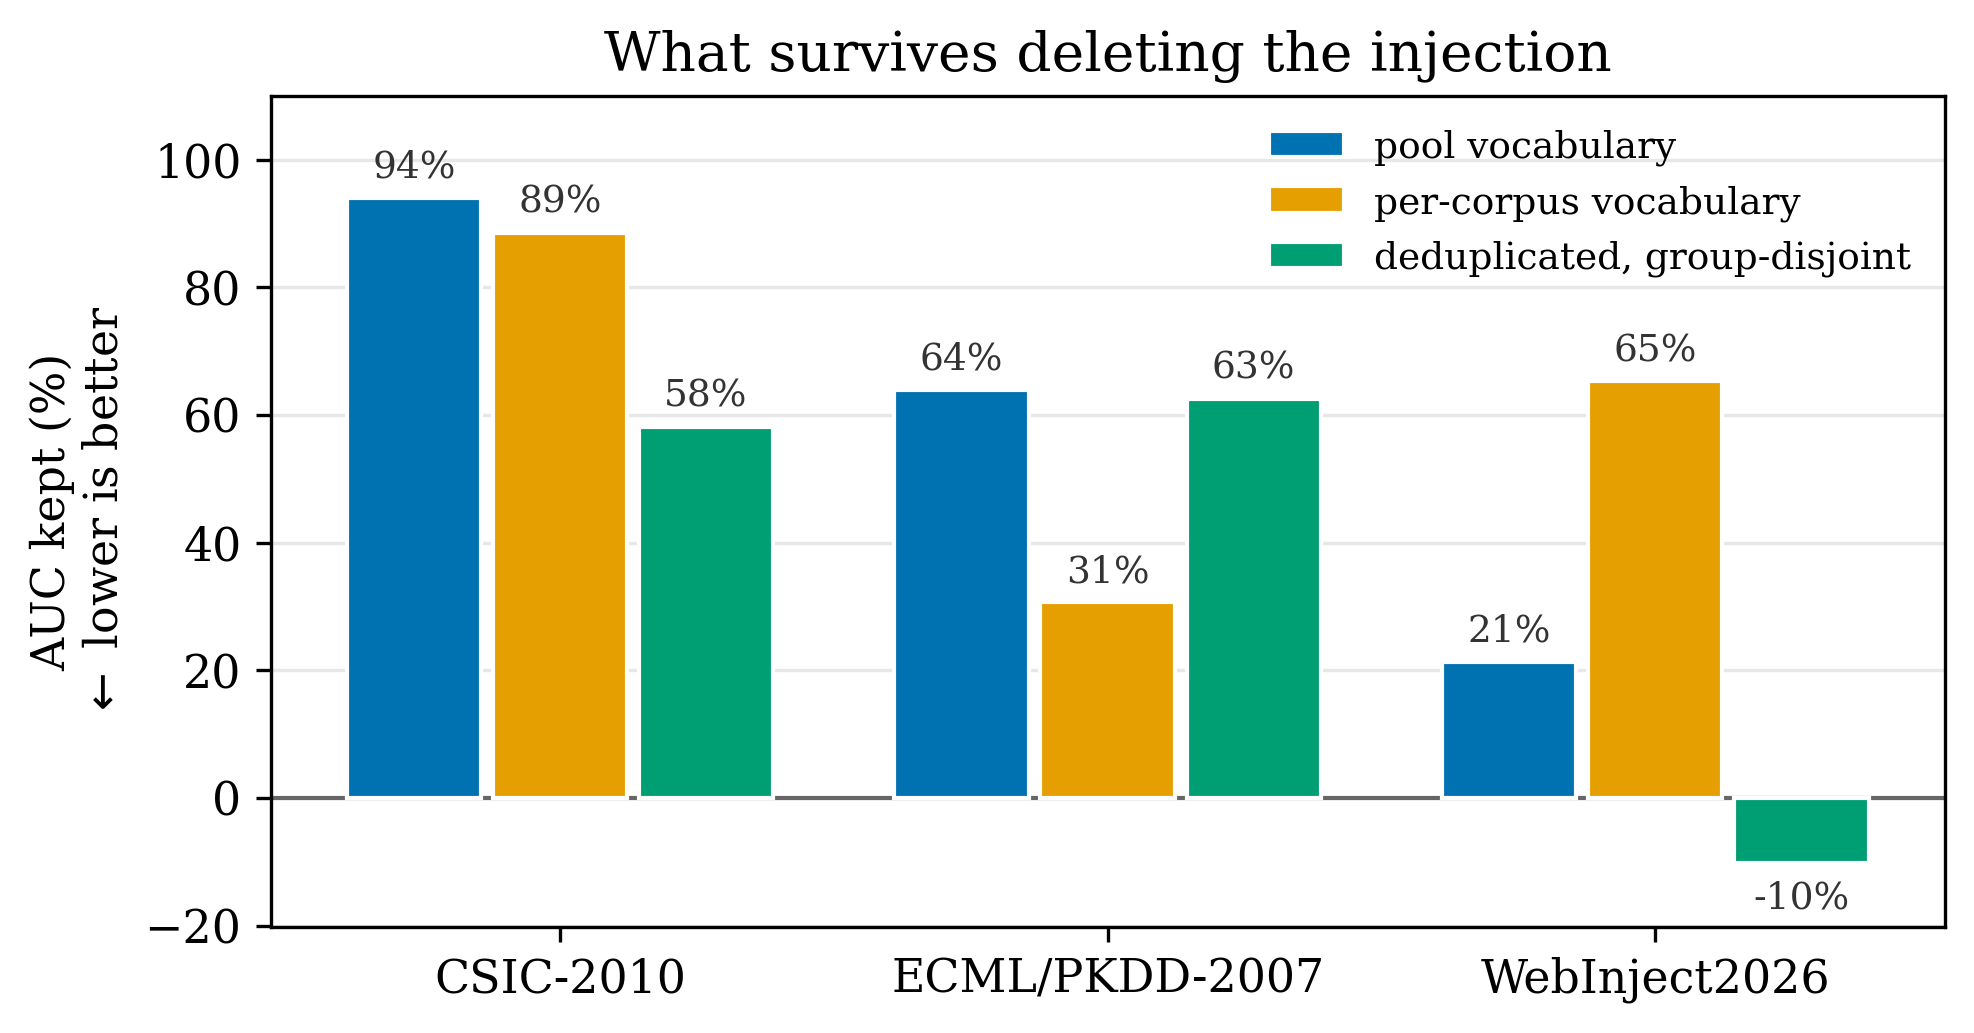
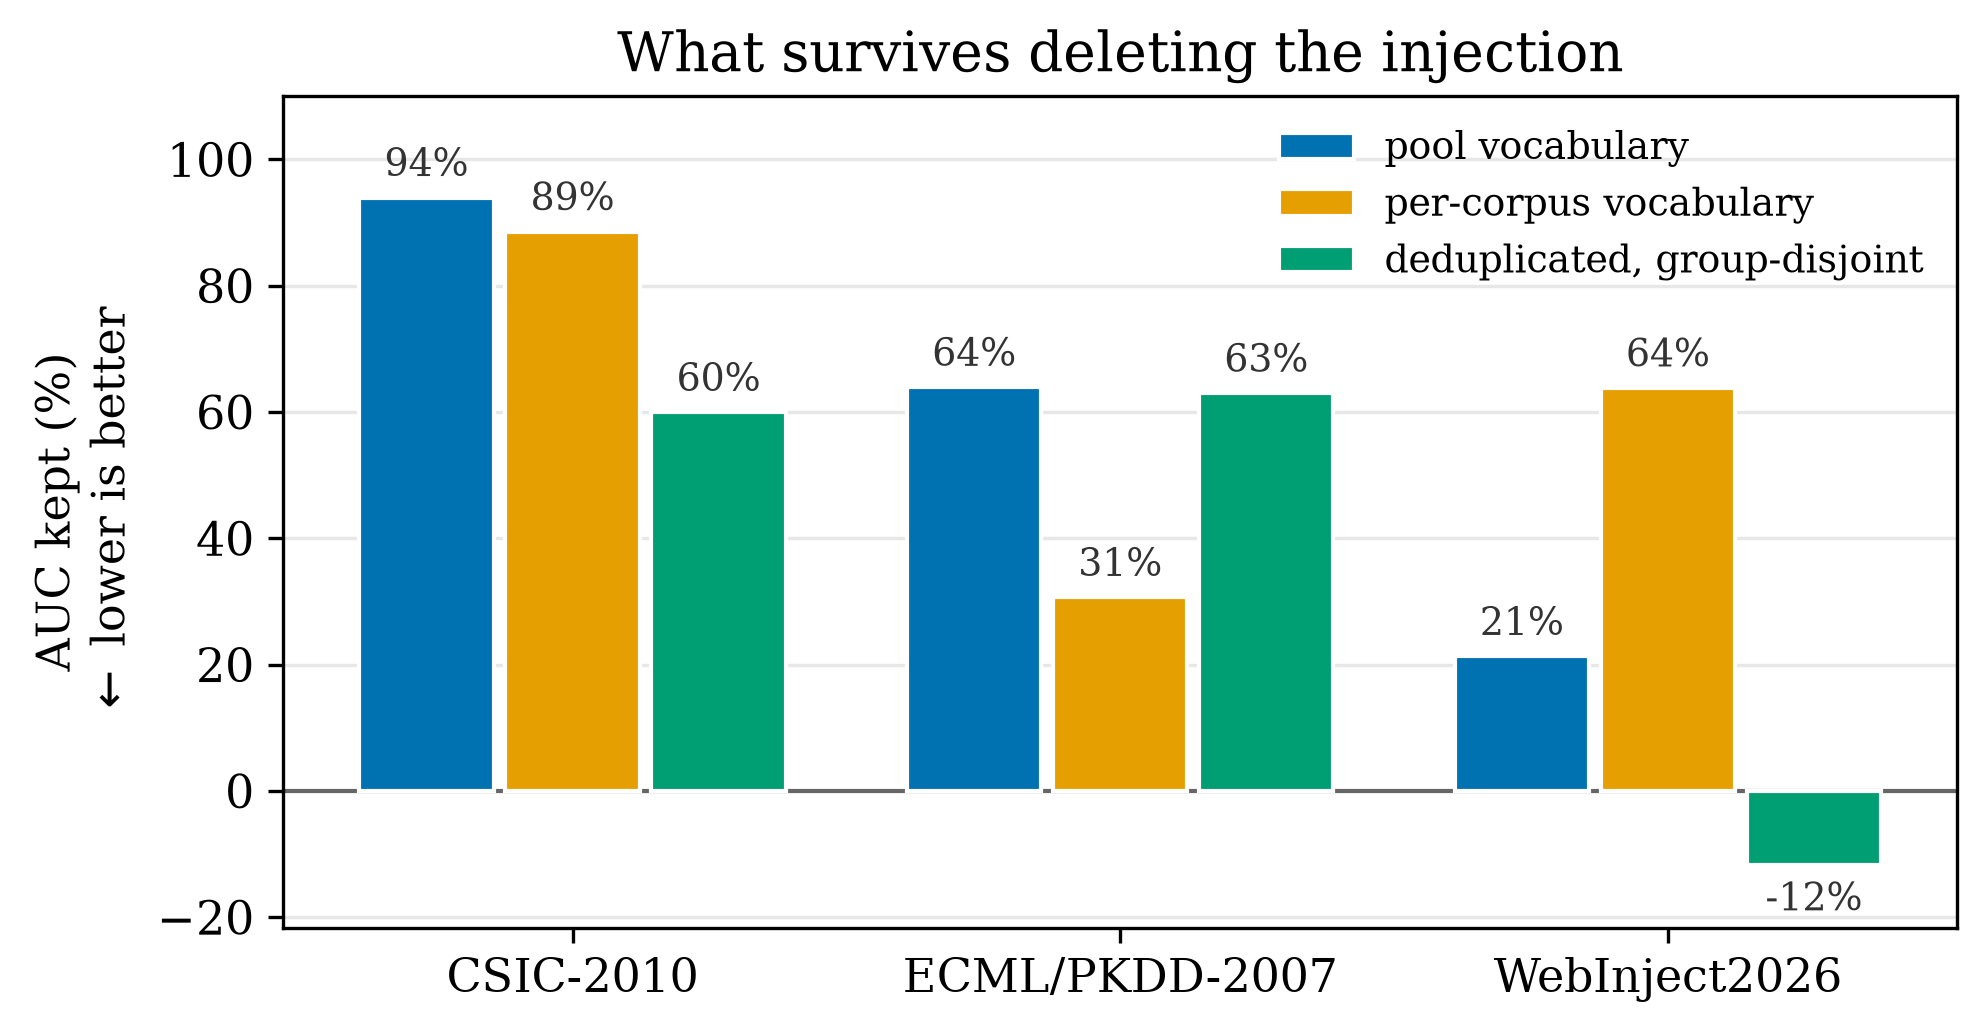
Correct the Panel B deletion-vocabulary estimator
Implements docs/panel-b-correction.md, which was committed first (803836b) so
the rule is on record as fixed before the outcome was known.

derive_vocab now drops from the benign denominator any benign row containing
literal injection syntax, via vocab.is_injective, applied identically to all
three corpora with no corpus-specific branch. A benign row that contains a real
break-out is not evidence that a token is non-injective, and only this corpus
has such rows in quantity: 2,022 of 45,400, against 0 of 72,000 in CSIC-2010
and 24 of 34,388 in ECML/PKDD-2007.

What moved, and nothing else did. Panel A is unchanged. In Panel B CSIC-2010
and ECML/PKDD-2007 are unchanged, because the guard excludes almost nothing
from them. WebInject2026: AUC kept 65.3% -> 63.8%, deleted AUC 0.825 -> 0.818,
deleted F1 0.623 -> 0.605, vocabulary 242 -> 251 tokens, estimator recall
57.8% -> 60.0%, matched-pair accuracy 80.5% -> 79.9%.

The correction does not rescue the result: we still rank behind ECML/PKDD-2007
under Panel B, and Section 6.3 now discloses the old rule, its recall against
ground truth, the number it produced, the corrected rule and the number that
produces. The superseded estimator is recorded in the result file so the
disclosure is generated rather than typed.

Also adds, per the specification: a deletion-completeness column to Table 4
(Panel A deletes the whole pool; Panel B recovers 48%, 36% and 60% of it), and
[…]

diff --git a/src/syntax_ablation.py b/src/syntax_ablation.py
@@ -95,6 +95,7 @@ from sklearn.metrics import f1_score, roc_auc_score
 from sklearn.model_selection import train_test_split
 
 from src import checksums as S  # noqa: E402
+from src.vocab import is_injective  # noqa: E402
 
 ROOT = os.path.dirname(os.path.dirname(os.path.abspath(__file__)))
 DATA = os.path.join(ROOT, "data")
@@ -123,7 +124,7 @@ def pool_words():
 VOCAB_LIFT = 5.0
 
 
-def derive_vocab(text, y, tr):
+def derive_vocab(text, y, tr, lift=None, guard=True):
     """Tokens a corpus's own training attacks over-use, relative to its benigns.
 
     Presence per row, not frequency: a token counts once however often it occurs
@@ -136,15 +137,47 @@ def derive_vocab(text, y, tr):
 
     Derived from TRAIN rows only, then applied to train and test alike, so the
     deletion cannot leak test-set information into the fit.
+
+    Benign rows containing literal injection syntax are excluded from the benign
+    denominator: such a row is not evidence that a token is non-injective. This
+    corpus ships an `ambiguous` benign tier built to carry real attack syntax and
+    the comparison corpora do not, so without this exclusion the estimator
+    declines to delete this corpus's own injection vocabulary while harvesting
+    theirs, and the panel penalises the corpus for the property it was built to
+    have. The guard is `vocab.is_injective` and it is applied identically to all
+    three corpora -- there is no corpus-specific branch. See
+    `docs/panel-b-correction.md` for the specification and the measured defect.
     """
-    na = max(1, int(y[tr].sum()))
-    nb = max(1, int((1 - y[tr]).sum()))
+    lift = VOCAB_LIFT if lift is None else lift
+    tt, ty = text[tr], y[tr]
+    if guard:
+        injective = np.fromiter((is_injective(s) for s in tt), bool, len(tt))
+        use = (ty == 1) | ~injective
+        tt, ty = tt[use], ty[use]
+    na = max(1, int(ty.sum()))
+    nb = max(1, int((1 - ty).sum()))
     ca, cb = Counter(), Counter()
-    for s, lab in zip(text[tr], y[tr]):
+    for s, lab in zip(tt, ty):
         toks = {w.lower() for w in WORD.findall(s)}
         (ca if lab == 1 else cb).update(toks)
     return {w for w, n in ca.items()
-            if n / na >= VOCAB_LIFT * ((cb.get(w, 0) + 1) / nb)}
+            if n / na >= lift * ((cb.get(w, 0) + 1) / nb)}
+
+
+def vocab_recall(vocab, text, pool):
+    """Deletion completeness: share of the injection vocabulary actually deleted.
+
+    Ground truth is the payload pool restricted to terms the corpus actually
+    contains. For WebInject2026 that is exact -- the pool is where its payloads
+    came from. For CSIC-2010 and ECML/PKDD-2007 it is a proxy that can only name
+    attack words this corpus happens to know, so their true vocabularies are
+    larger than the denominator and the real recall is lower than reported.
+    """
+    present = {w.lower() for s in text for w in WORD.findall(str(s))}
+    gt = pool & present
+    if not gt:
+        return None, 0
+    return len(vocab & gt) / len(gt), len(gt)
 
 
 def strip_vocab(s, vocab):
@@ -192,6 +225,37 @@ CORPORA = [("csic_parsed", "CSIC-2010"),
            ("webinject2026", "WebInject2026")]
 
 
+def lift_sweep(lifts=(2.0, 5.0, 10.0, 20.0)):
+    """Panel B under a range of lift thresholds, per `docs/panel-b-correction.md`.
+
+    Reported so that the headline threshold is visibly not a tuned choice. The
+    rule was fixed before this was run; the sweep is a sensitivity report, not a
+    selection procedure.
+    """
+    pool = pool_words()
+    out = []
+    for key, label in CORPORA:
+        d, tr, te = _load(key)
+        if d is None:
+            continue
+        text = d["payload"].astype(str)
+        y = d["label"].to_numpy()
+        full, _ = _fit(text[tr], y[tr], text[te], y[te])
+        base = full["roc_auc"] - 0.5
+        for lift in lifts:
+            vocab = derive_vocab(text, y, tr, lift=lift)
+            deleted = text.map(lambda s: strip_vocab(s, vocab))
+            m, _ = _fit(deleted[tr], y[tr], deleted[te], y[te])
+            recall, _ = vocab_recall(vocab, text, pool)
+            out.append({"corpus": label, "lift": float(lift),
+                        "vocab_size": len(vocab),
+                        "vocab_recall": recall,
+                        "roc_auc": m["roc_auc"],
+                        "auc_retained": (float((m["roc_auc"] - 0.5) / base)
+                                         if base > 0 else float("nan"))})
+    return out
+
+
 def run(fast=False, panel="pool"):
     """One panel of Table 4. `panel` selects where the deleted vocabulary comes
     from: the fixed payload pool, or each corpus's own training attacks."""
@@ -209,8 +273,27 @@ def run(fast=False, panel="pool"):
                  "syntax_deleted": text.map(strip_syntax),
                  "syntax_and_vocab_deleted": text.map(lambda s: strip_vocab(s, vocab))}
 
+        recall, gt_n = vocab_recall(vocab, text, pool)
         rec = {"corpus": label, "panel": panel, "n": int(len(d)),
-               "base_rate": float(y.mean()), "vocab_size": len(vocab)}
+               "base_rate": float(y.mean()), "vocab_size": len(vocab),
+               "vocab_recall": recall, "vocab_gt_n": gt_n,
+               "vocab_gt_exact": key == "webinject2026"}
+
+        # The superseded Panel B estimator, kept so that Section 6.3 can state
+        # what the old rule produced without anyone typing the number in. See
+        # docs/panel-b-correction.md.
+        if panel == "symmetric":
+            old_vocab = derive_vocab(text, y, tr, guard=False)
+            old_recall, _ = vocab_recall(old_vocab, text, pool)
+            old_text = text.map(lambda s: strip_vocab(s, old_vocab))
+            old_m, _ = _fit(old_text[tr], y[tr], old_text[te], y[te])
+            rec["superseded"] = {
+                "rule": "no injection guard on the benign denominator",
+                "vocab_size": len(old_vocab),
+                "vocab_recall": old_recall,
+                "roc_auc": old_m["roc_auc"],
+                "f1": old_m["f1"],
+            }
         scores = {}
         for cond, t in conds.items():
             rec[cond], scores[cond] = _fit(t[tr], y[tr], t[te], y[te])
@@ -270,6 +353,8 @@ def main():
     ap.add_argument("--fast", action="store_true")
     ap.add_argument("--panel", default="both",
                     choices=["pool", "symmetric", "both"])
+    ap.add_argument("--sweep", action="store_true",
+                    help="also run the VOCAB_LIFT sensitivity sweep")
     args = ap.parse_args()
 
     panels = (["pool", "symmetric"] if args.panel == "both" else [args.panel])
@@ -329,6 +414,19 @@ def main():
         print("  Matched aggression is not matched completeness: the symmetric rule")
         print("  is a statistic, so it leaves injection behind. Only a paired corpus")
         print("  can measure that, which is part of why both panels ship.")
+
+    if args.sweep:
+        print("=" * 78)
+        print("VOCAB_LIFT sensitivity, Panel B rule (docs/panel-b-correction.md)")
+        print("=" * 78)
+        sweep = lift_sweep()
+        out["lift_sweep"] = sweep
+        print(f"  {'corpus':<18}{'lift':>6}{'vocab':>8}{'recall':>9}{'AUC kept':>10}")
+        for r in sweep:
+            rc = "n/a" if r["vocab_recall"] is None else f"{r['vocab_recall']*100:.0f}%"
+            print(f"  {r['corpus']:<18}{r['lift']:>6.0f}{r['vocab_size']:>8}"
+                  f"{rc:>9}{r['auc_retained']*100:>9.0f}%")
+        print()
 
     if args.json:
         payload = out if len(out) > 1 else out[panels[0]]

diff --git a/docs/build_tables.py b/docs/build_tables.py
@@ -310,6 +310,41 @@ def build_macros():
     m["symPaired"] = _pct(
         sym["WebInject2026"]["syntax_and_vocab_deleted"]["paired_accuracy"], 0)
 
+    # Panel B correction (docs/panel-b-correction.md). Deletion completeness and
+    # the superseded estimator's numbers, so Section 6.3 can disclose the change
+    # without anyone typing a number into the prose.
+    for corpus in CORPORA:
+        r = sym.get(corpus, {})
+        if r.get("vocab_recall") is not None:
+            m[f"sym{TAG[corpus]}Recall"] = _pct(r["vocab_recall"], 0)
+        pr = pool.get(corpus, {})
+        if pr.get("vocab_recall") is not None:
+            m[f"abl{TAG[corpus]}Recall"] = _pct(pr["vocab_recall"], 0)
+    m["poolTokens"] = _int(pool["WebInject2026"]["vocab_size"])
+    old_b = sym.get("WebInject2026", {}).get("superseded")
+    if old_b:
+        base = sym["WebInject2026"]["full"]["roc_auc"] - 0.5
+        m["oldSymWiKept"] = _pct((old_b["roc_auc"] - 0.5) / base, 0)
+        m["oldSymWiVocab"] = _int(old_b["vocab_size"])
+        m["oldSymWiRecall"] = _pct(old_b["vocab_recall"], 0)
+    old_e = sym.get("ECML/PKDD-2007", {}).get("superseded")
+    if old_e:
+        base = sym["ECML/PKDD-2007"]["full"]["roc_auc"] - 0.5
+        m["oldSymEcmlKept"] = _pct((old_e["roc_auc"] - 0.5) / base, 0)
+    # Lift sweep: the range our AUC kept spans across {2,5,10,20}.
+    sweep = _load("syntax_ablation.json").get("lift_sweep")
+    if sweep:
+        ours = [r for r in sweep if r["corpus"] == "WebInject2026"]
+        ecml = [r for r in sweep if r["corpus"] == "ECML/PKDD-2007"]
+        if ours:
+            m["sweepWiLo"] = _pct(min(r["auc_retained"] for r in ours), 0)
+            m["sweepWiHi"] = _pct(max(r["auc_retained"] for r in ours), 0)
+        if ours and ecml:
+            by = lambda rs: {r["lift"]: r["auc_retained"] for r in rs}
+            o, e = by(ours), by(ecml)
+            m["sweepFlips"] = ("no" if all((o[k] > e[k]) == (o[5.0] > e[5.0])
+                                           for k in o if k in e) else "yes")
+
     # Carrier-only AUC range across the zoo, full-data tier.
     carr = [v["ablation_carrier_only"]["roc_auc"]
             for z in (zoo, zooc)
@@ -484,19 +519,30 @@ def _tabular(colspec, header, rows):
 
 
 def render_ablation(panel):
+    """One panel of Table 4.
+
+    The `compl.` column is deletion completeness: the share of the injection
+    vocabulary the deletion actually removed, against the payload pool
+    restricted to terms the corpus contains. Panel A is 100% by construction --
+    it deletes the whole pool. Panel B is whatever its estimator recovers, which
+    is the point of the column: matched aggression is not matched completeness.
+    See `docs/panel-b-correction.md`.
+    """
     sa = _by_corpus(_load("syntax_ablation.json")[panel])
     rows = []
     for c in CORPORA:
         r = sa[c]
         d = r["syntax_and_vocab_deleted"]
+        rec = r.get("vocab_recall")
         rows.append([c, _f(r["full"]["f1"]), _f(r["full"]["roc_auc"]),
                      _f(d["f1"]), _f(d["roc_auc"]), _f(_delta(r)),
                      _int(r["vocab_size"]),
                      _pct(d["chars_deleted"], 0) + "\\%",
+                     ("--" if rec is None else _pct(rec, 0) + "\\%"),
                      _pct(_kept(r), 0) + "\\%"])
-    return _tabular("|l|r|r|r|r|r|r|r|r|",
+    return _tabular("|l|r|r|r|r|r|r|r|r|r|",
                     ["Corpus", "full F1", "full AUC", "F1", "AUC",
-                     "$\\Delta$AUC", "vocab", "chars del.",
+                     "$\\Delta$AUC", "vocab", "chars del.", "compl.",
                      "AUC kept $\\downarrow$"], rows)
 
 
@@ -634,9 +680,13 @@ def render_zoo(capped):
             # one, which five rules alone do not convey. The full diagnosis is in
             # the result file.
             if "error" in r:
+                # State only what the result file records. The earlier wording,
+                # "diverged in the backward pass", asserted a mechanism the run
+                # never established; what was measured is the loss going
+                # non-finite at the first optimiser step.
                 rows.append([name, tier,
-                             "\\multicolumn{5}{c|}{non-convergent: "
-                             "diverged in the backward pass}"])
+                             "\\multicolumn{5}{c|}{non-convergent: non-finite "
+                             "loss at optimiser step 1}"])
                 continue
             rows.append([name, tier,
                          cell(r.get("payload-disjoint"), "f1", _pct),
